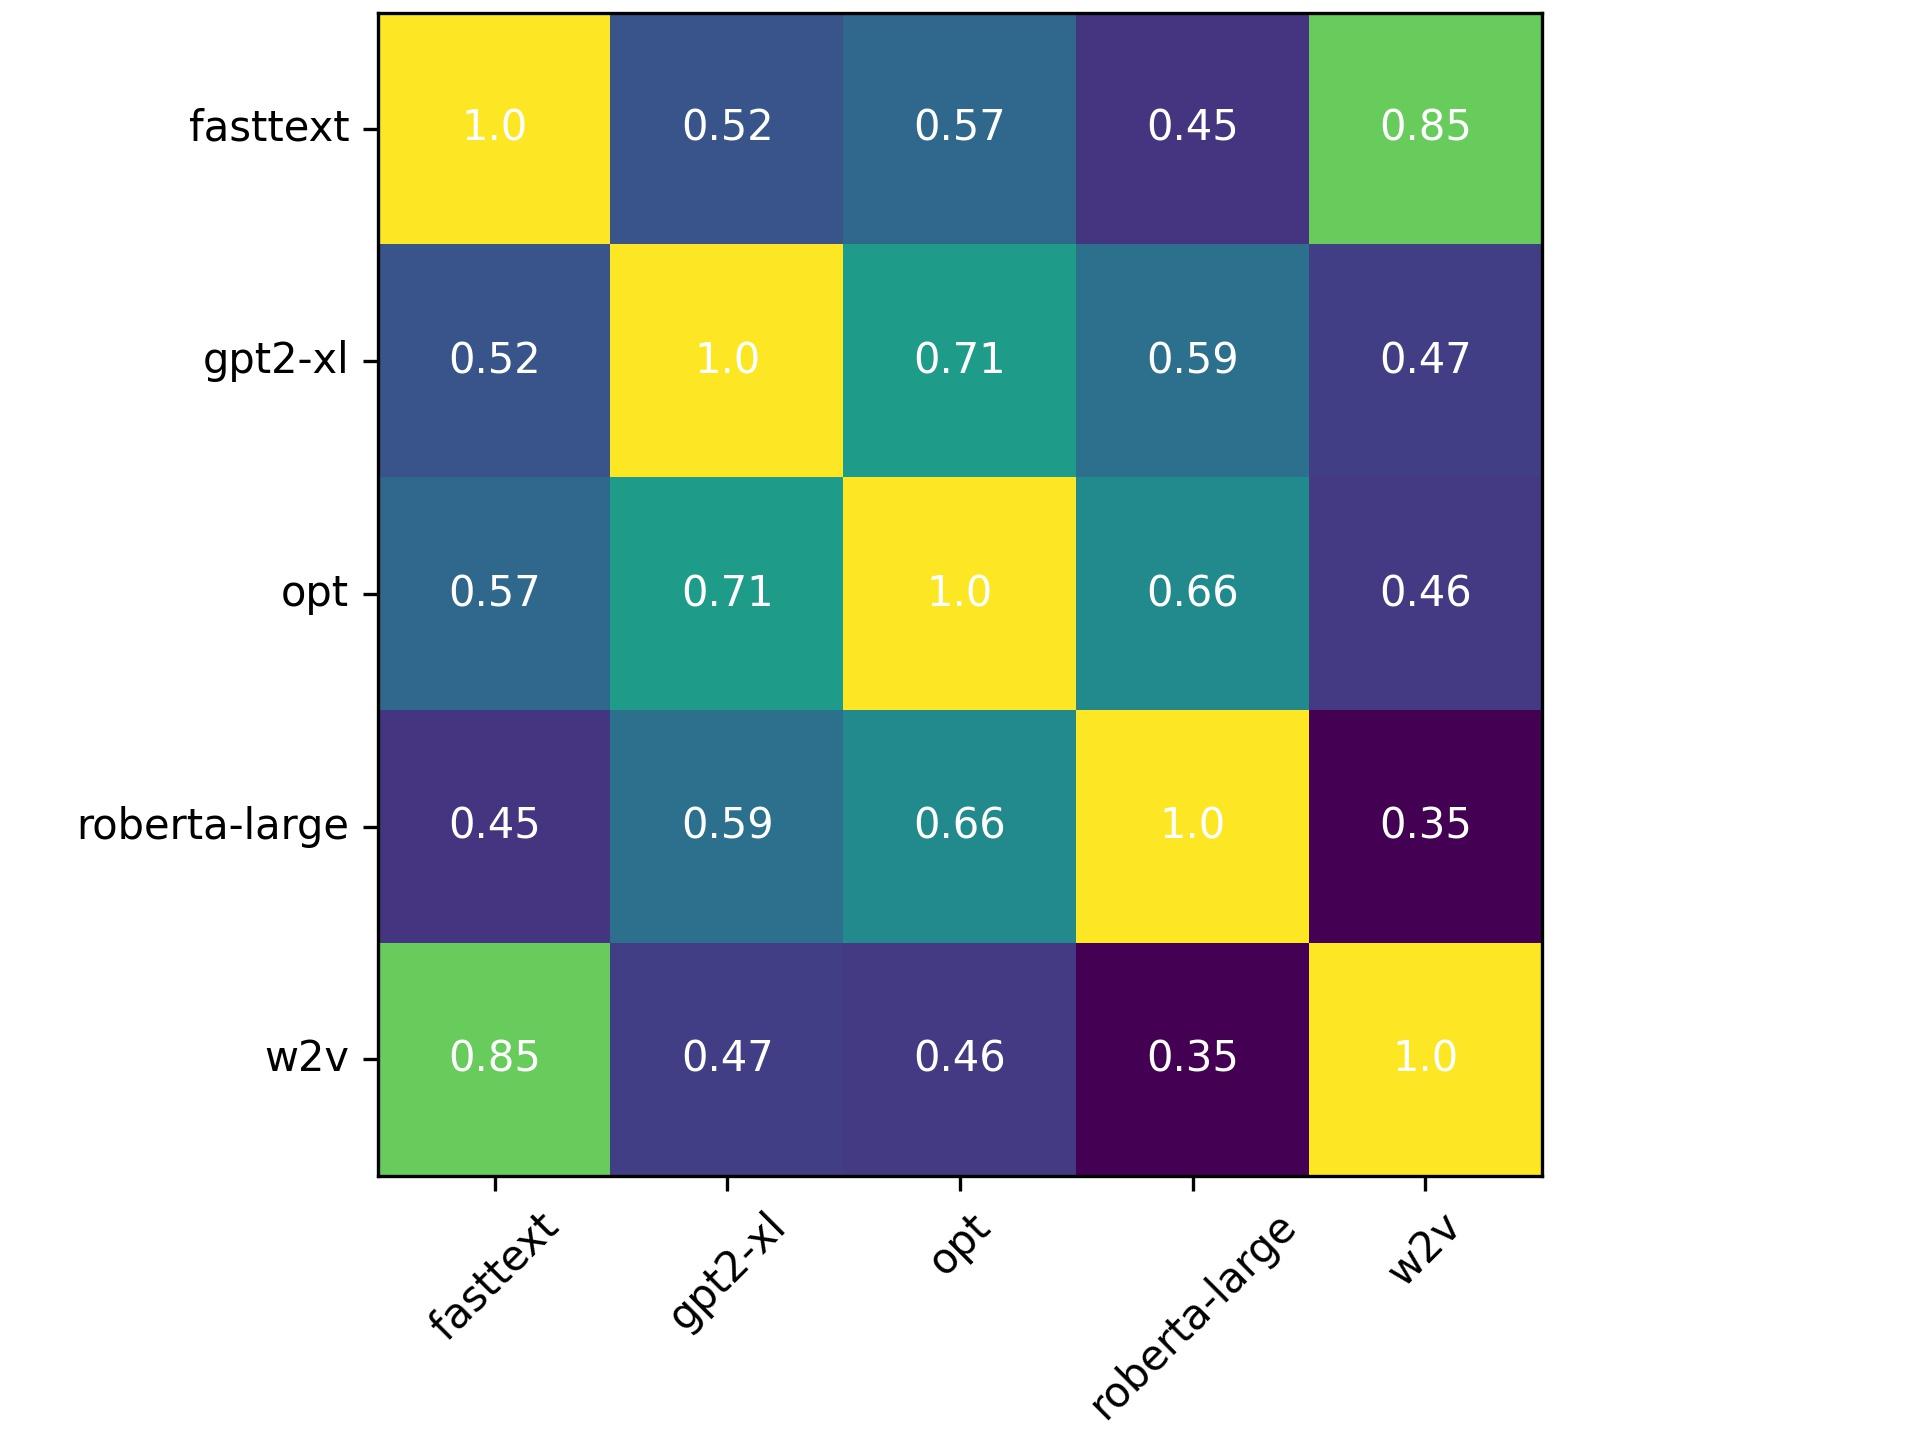
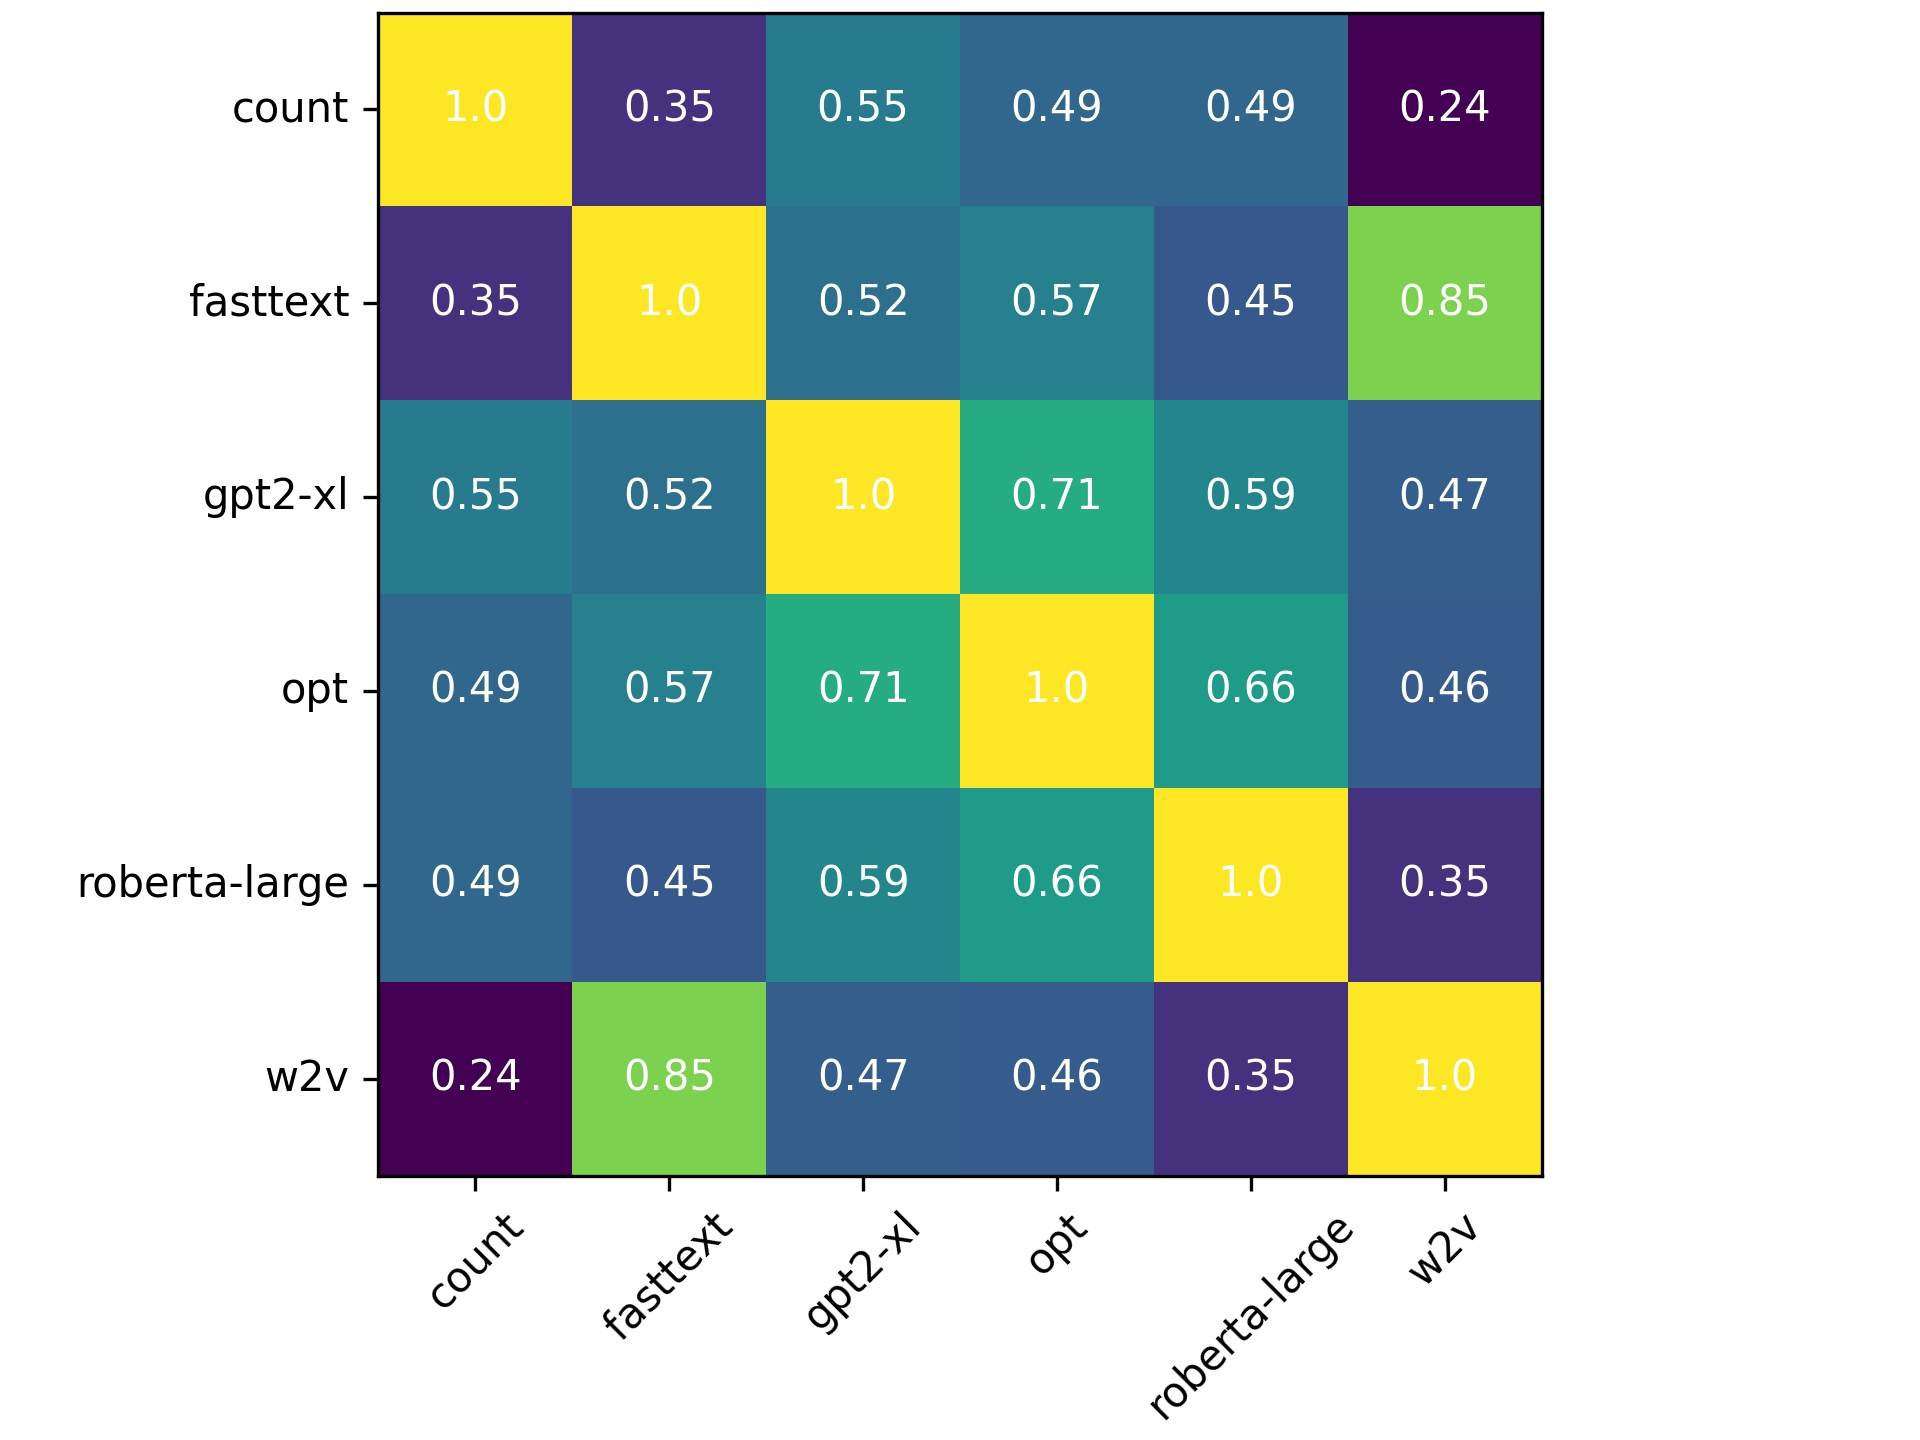
added analyses

diff --git a/extract_static.py b/extract_static.py
@@ -1,13 +1,134 @@
 import argparse
 import fasttext
 import gensim
+import multiprocessing
 import numpy
 import os
+import pickle
 import re
 
 from gensim import downloader
 from gensim.models import Word2Vec
 from tqdm import tqdm
+
+from utils import read_brysbaert_norms, read_pos, read_pukwac
+
+def coocs_counter(all_args):
+
+    file_path = all_args[0]
+    vocab = all_args[1]
+    coocs = all_args[2]
+
+    with tqdm() as counter:
+        for sentence in read_pukwac(file_path):
+            keyed_sentence = list()
+            for lemma, dep in zip(sentence['lemmas'], sentence['dep']):
+                key = '{}_{}'.format(lemma, dep)
+                key = key.split('_')[0]
+                keyed_sentence.append(vocab[key])
+            for start_i, start in enumerate(keyed_sentence):
+                sent_slice = keyed_sentence[min(0, start_i-5):start_i] + keyed_sentence[start_i+1:start_i+5]
+                #print(sent_slice)
+                for other in sent_slice:
+                    coocs[start][other] += 1
+                    ### debugging
+                    #if (start, other) != (0, 0):
+                    #    print(coocs[start][other])
+                counter.update(1)
+    return coocs
+
+full_stimuli = list()
+
+sentences_folder = 'sentences'
+for f in os.listdir(sentences_folder):
+    full_stimuli.append(f.split('.')[0])
+path = os.path.join('/', 'import', 'cogsci', 'andrea', 'dataset', 'corpora', 'PukWaC')
+paths = [os.path.join(path, f) for f in os.listdir(path)]
+
+collector = {'count' : dict(), 'fasttext' : dict(), 'w2v' : dict()}
+
+conc, val, aro, dom = read_brysbaert_norms()
+pos = read_pos()
+for w in conc.keys():
+    if w not in pos.keys():
+        pos[w] = 'NA'
+pkls = 'pickles'
+
+freqs_file = os.path.join(pkls, 'freqs.pkl')
+with open(freqs_file, 'rb') as i:
+    print('loading freqs')
+    freqs = pickle.load(i)
+    print('loaded!')
+### aggregating
+final_freqs = dict()
+for k, v in freqs.items():
+    key = k.split('_')[0]
+    try:
+        final_freqs[key] += v
+    except KeyError:
+        final_freqs[key] = v
+relevant_pos = ['Noun', 'Verb', 'Adverb', 'Adjective']
+### selecting vocab
+conc_vocab = [w for w in conc.keys() if w in final_freqs.keys() and pos[w] in relevant_pos]
+### pruning vocab to top 20
+boundary = numpy.quantile([final_freqs[w] for w in conc_vocab], 0.8)
+conc_vocab = [w for w in conc_vocab if final_freqs[w]>boundary]
+### hard-adding stimuli words
+for s in full_stimuli:
+    words = s.split()
+    for w in words:
+        if w not in conc_vocab:
+            conc_vocab.append(w)
+### vocab for top 20
+print('creating the vocabulary...')
+vocab_file = os.path.join(pkls, 'top_20_vocab.pkl')
+if os.path.exists(vocab_file):
+    with open(vocab_file, 'rb') as i:
+        print('loading vocab')
+        vocab = pickle.load(i)
+        print('loaded!')
+else:
+    vocab = dict()
+    counter = 1
+    for k, v in tqdm(freqs.items()):
+        w = k.split('_')[0]
+        if w in conc_vocab:
+            vocab[w] = counter
+            counter += 1
+        else:
+            vocab[w] = 0
+    with open(vocab_file, 'wb') as o:
+        pickle.dump(vocab, o)
+
+ids = set(vocab.values())
+coocs = {i_one : {i_two : 0 for i_two in ids} for i_one in ids}
+final_coocs = coocs.copy()
+coocs_file = os.path.join(pkls, 'top_20_coocs.pkl')
+if os.path.exists(coocs_file):
+    with open(coocs_file, 'rb') as i:
+        print('loading coocs')
+        final_coocs = pickle.load(i)
+        print('loaded!')
+else:
+
+    ### Running
+    with multiprocessing.Pool(processes=len(paths)) as pool:
+       results = pool.map(coocs_counter, [[path, vocab, coocs] for path in paths])
+       pool.terminate()
+       pool.join()
+
+    ### Reorganizing results
+    for coocs_dict in results:
+        for k, v in coocs_dict.items():
+            for k_two, v_two in v.items():
+                final_coocs[k][k_two] += v_two
+
+    with open(coocs_file, 'wb') as o:
+        pickle.dump(final_coocs, o)
+
+collector['count'] = {k : numpy.average([[final_coocs[vocab[k_word]][vocab[other]] for other in conc_vocab] for k_word in k.split()], axis=0) for k in full_stimuli}
+
+print('loaded!')
 
 print('loading fasttext...')
 ft = fasttext.load_model(os.path.join('pickles', 'cc.en.300.bin'))
@@ -17,13 +138,7 @@ print('loading word2vec...')
 w2v = downloader.load('word2vec-google-news-300')
 print('loaded!')
 
-full_stimuli = list()
 
-sentences_folder = 'sentences'
-for f in os.listdir(sentences_folder):
-    full_stimuli.append(f.split('.')[0])
-
-collector = {'fasttext' : dict(), 'w2v' : dict()}
 ### fasttext
 
 for f in full_stimuli:
@@ -46,5 +161,3 @@ for k, model_vecs in collector.items():
             for dim in v:
                 o.write('{}\t'.format(dim))
             o.write('\n')
-
-

diff --git a/collect_freqs_coocs.py b/collect_freqs_coocs.py
@@ -136,8 +136,7 @@ ids = set(vocab.values())
 coocs = {i_one : {i_two : 0 for i_two in ids} for i_one in ids}
 final_coocs = coocs.copy()
 
-#relevant = set()
-#relevant.update([k, freqs[k]])
+### looking at noun frequencies
 
 all_relevant = {k : final_freqs[k] for k, v in vocab.items() if v!=0}
 relevant_list = [k.split('_')[0] for k in all_relevant.keys()]
@@ -151,8 +150,10 @@ for k, v in all_relevant.items():
 
 sorted_nouns = sorted(final_relevant.items(), key=lambda item : item[1])
 
-#for k, v in sorted_nouns:
-#    print([k, v])
+for k, v in sorted_nouns:
+    print([k, v])
+
+### collecting co-occurrences
 
 coocs_file = os.path.join(pkls, 'coocs.pkl')
 if os.path.exists(coocs_file):

diff --git a/utils.py b/utils.py
@@ -59,12 +59,18 @@ def read_brysbaert_norms():
             conc[line[0]] = float(line[2])
     return conc, val, aro, dom
 
-def read_pos():
+def read_pos(prune=False):
 
     pos = dict()
+    counter = 0
     with open(os.path.join('data', 'SUBTLEX-US_freq_with_PoS.txt')) as i:
         for l in i:
+            if counter == 0:
+                counter += 1
+                continue
             line = l.strip().split('\t')
+            if prune and int(line[1])<100:
+                continue
             pos[line[0]] = line[9]
     return pos
 
